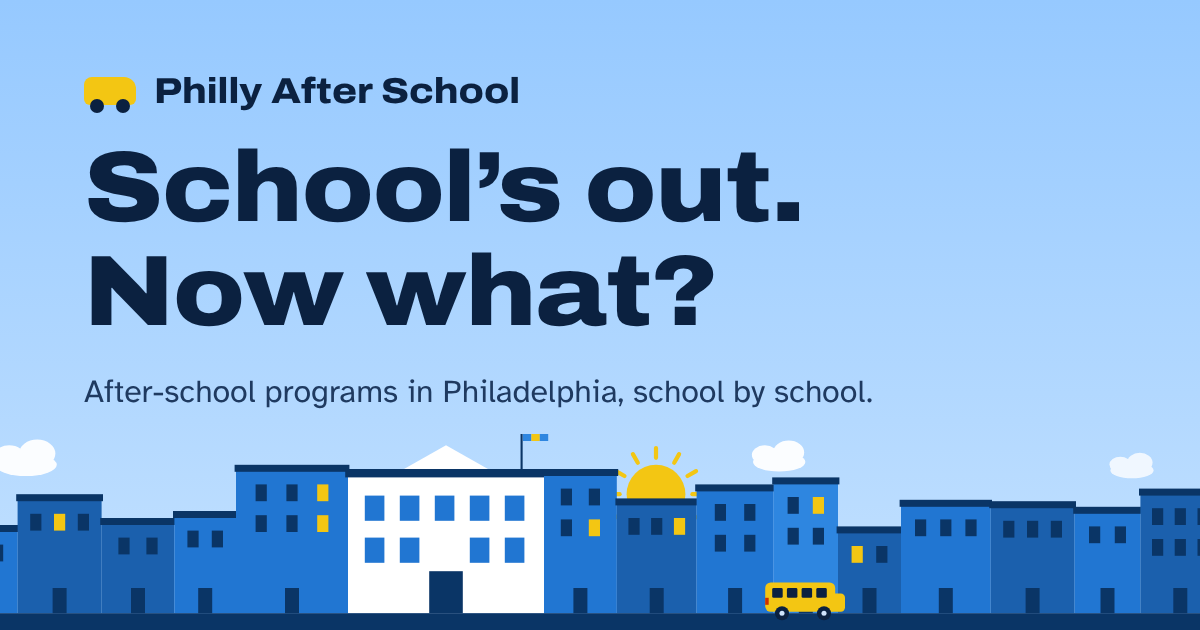
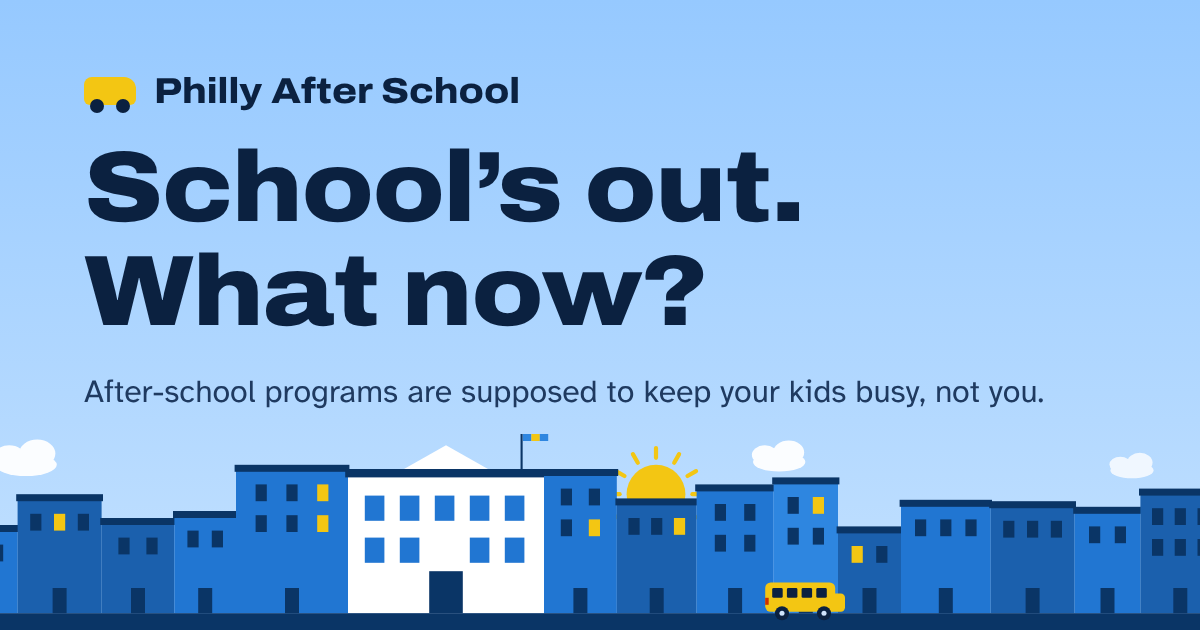
The link preview: the new headline in the picture, and the home page's lede as its text
Claude-Session: https://claude.ai/code/session_014J9upzwzYj5u4U8HYNcMSU

Changed region(s): [[0.0617, 0.3921, 0.6167, 0.5429], [0.3392, 0.6032, 0.8633, 0.6635]]

diff --git a/README.md b/README.md
@@ -648,6 +648,12 @@ white-on-deep-blue. Dark mode has its own set just below, where the band is deep
 scene is switched off (`--sun`). The week card (`drawCard` in `src/site.js`) and the link-preview picture
 (`src/static/share.png`, 1200 by 630) use the same sky and footer, so change them together.
 
+**What a shared link shows.** A link to the site that is texted or posted shows the picture, a title and a line of
+text. The picture's headline and its one line are part of the picture, so when the home page's headline changes the
+picture has to be drawn again. The line of text under it (`og:description`) on the home page is the home page's
+lede as it reads today, copy edits included (`shareText` in `layout()`, filled by `copyNow()`); every other page
+uses its search description. The description search engines read is separate and is not changed by copy edits.
+
 **A saved school.** A school page has "Save as my school". The choice is kept in the visitor's browser
 (`pas-my-school`), with no account. After that the home page shows a shortcut to the school, the citywide
 lists (A to Z, types, neighborhoods) open narrowed to programs that work for it with an "Any school" button
